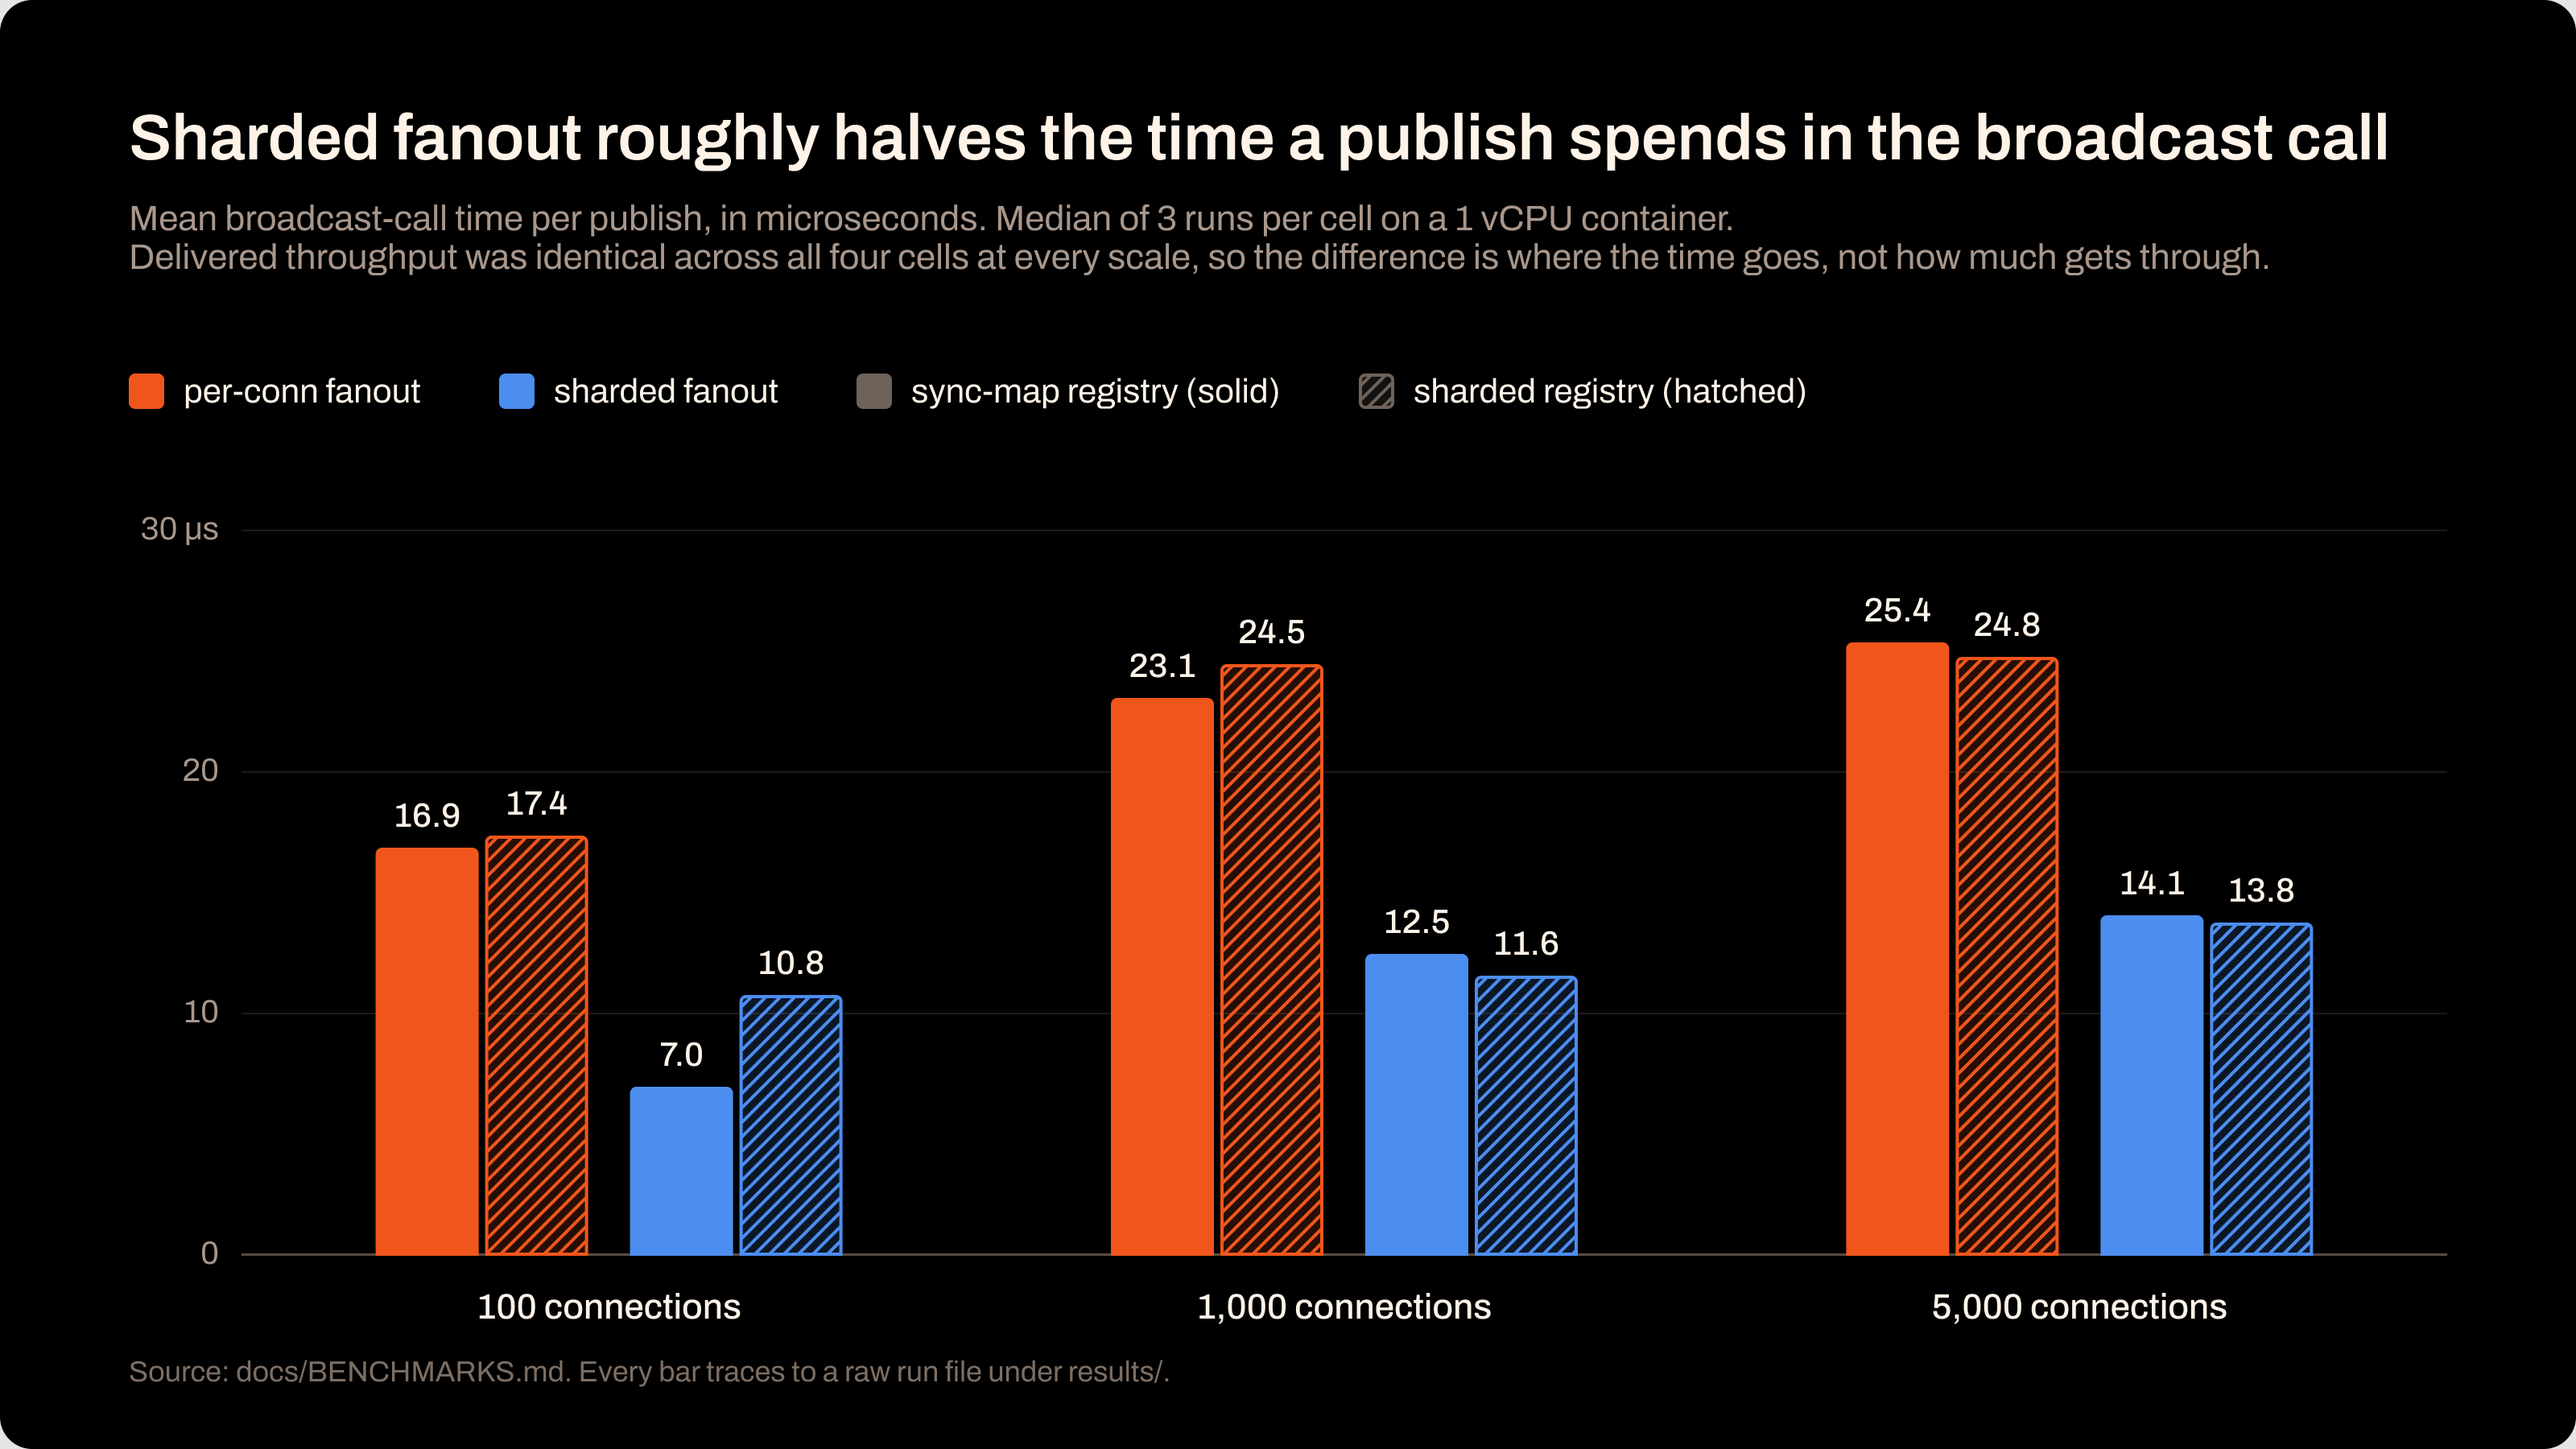
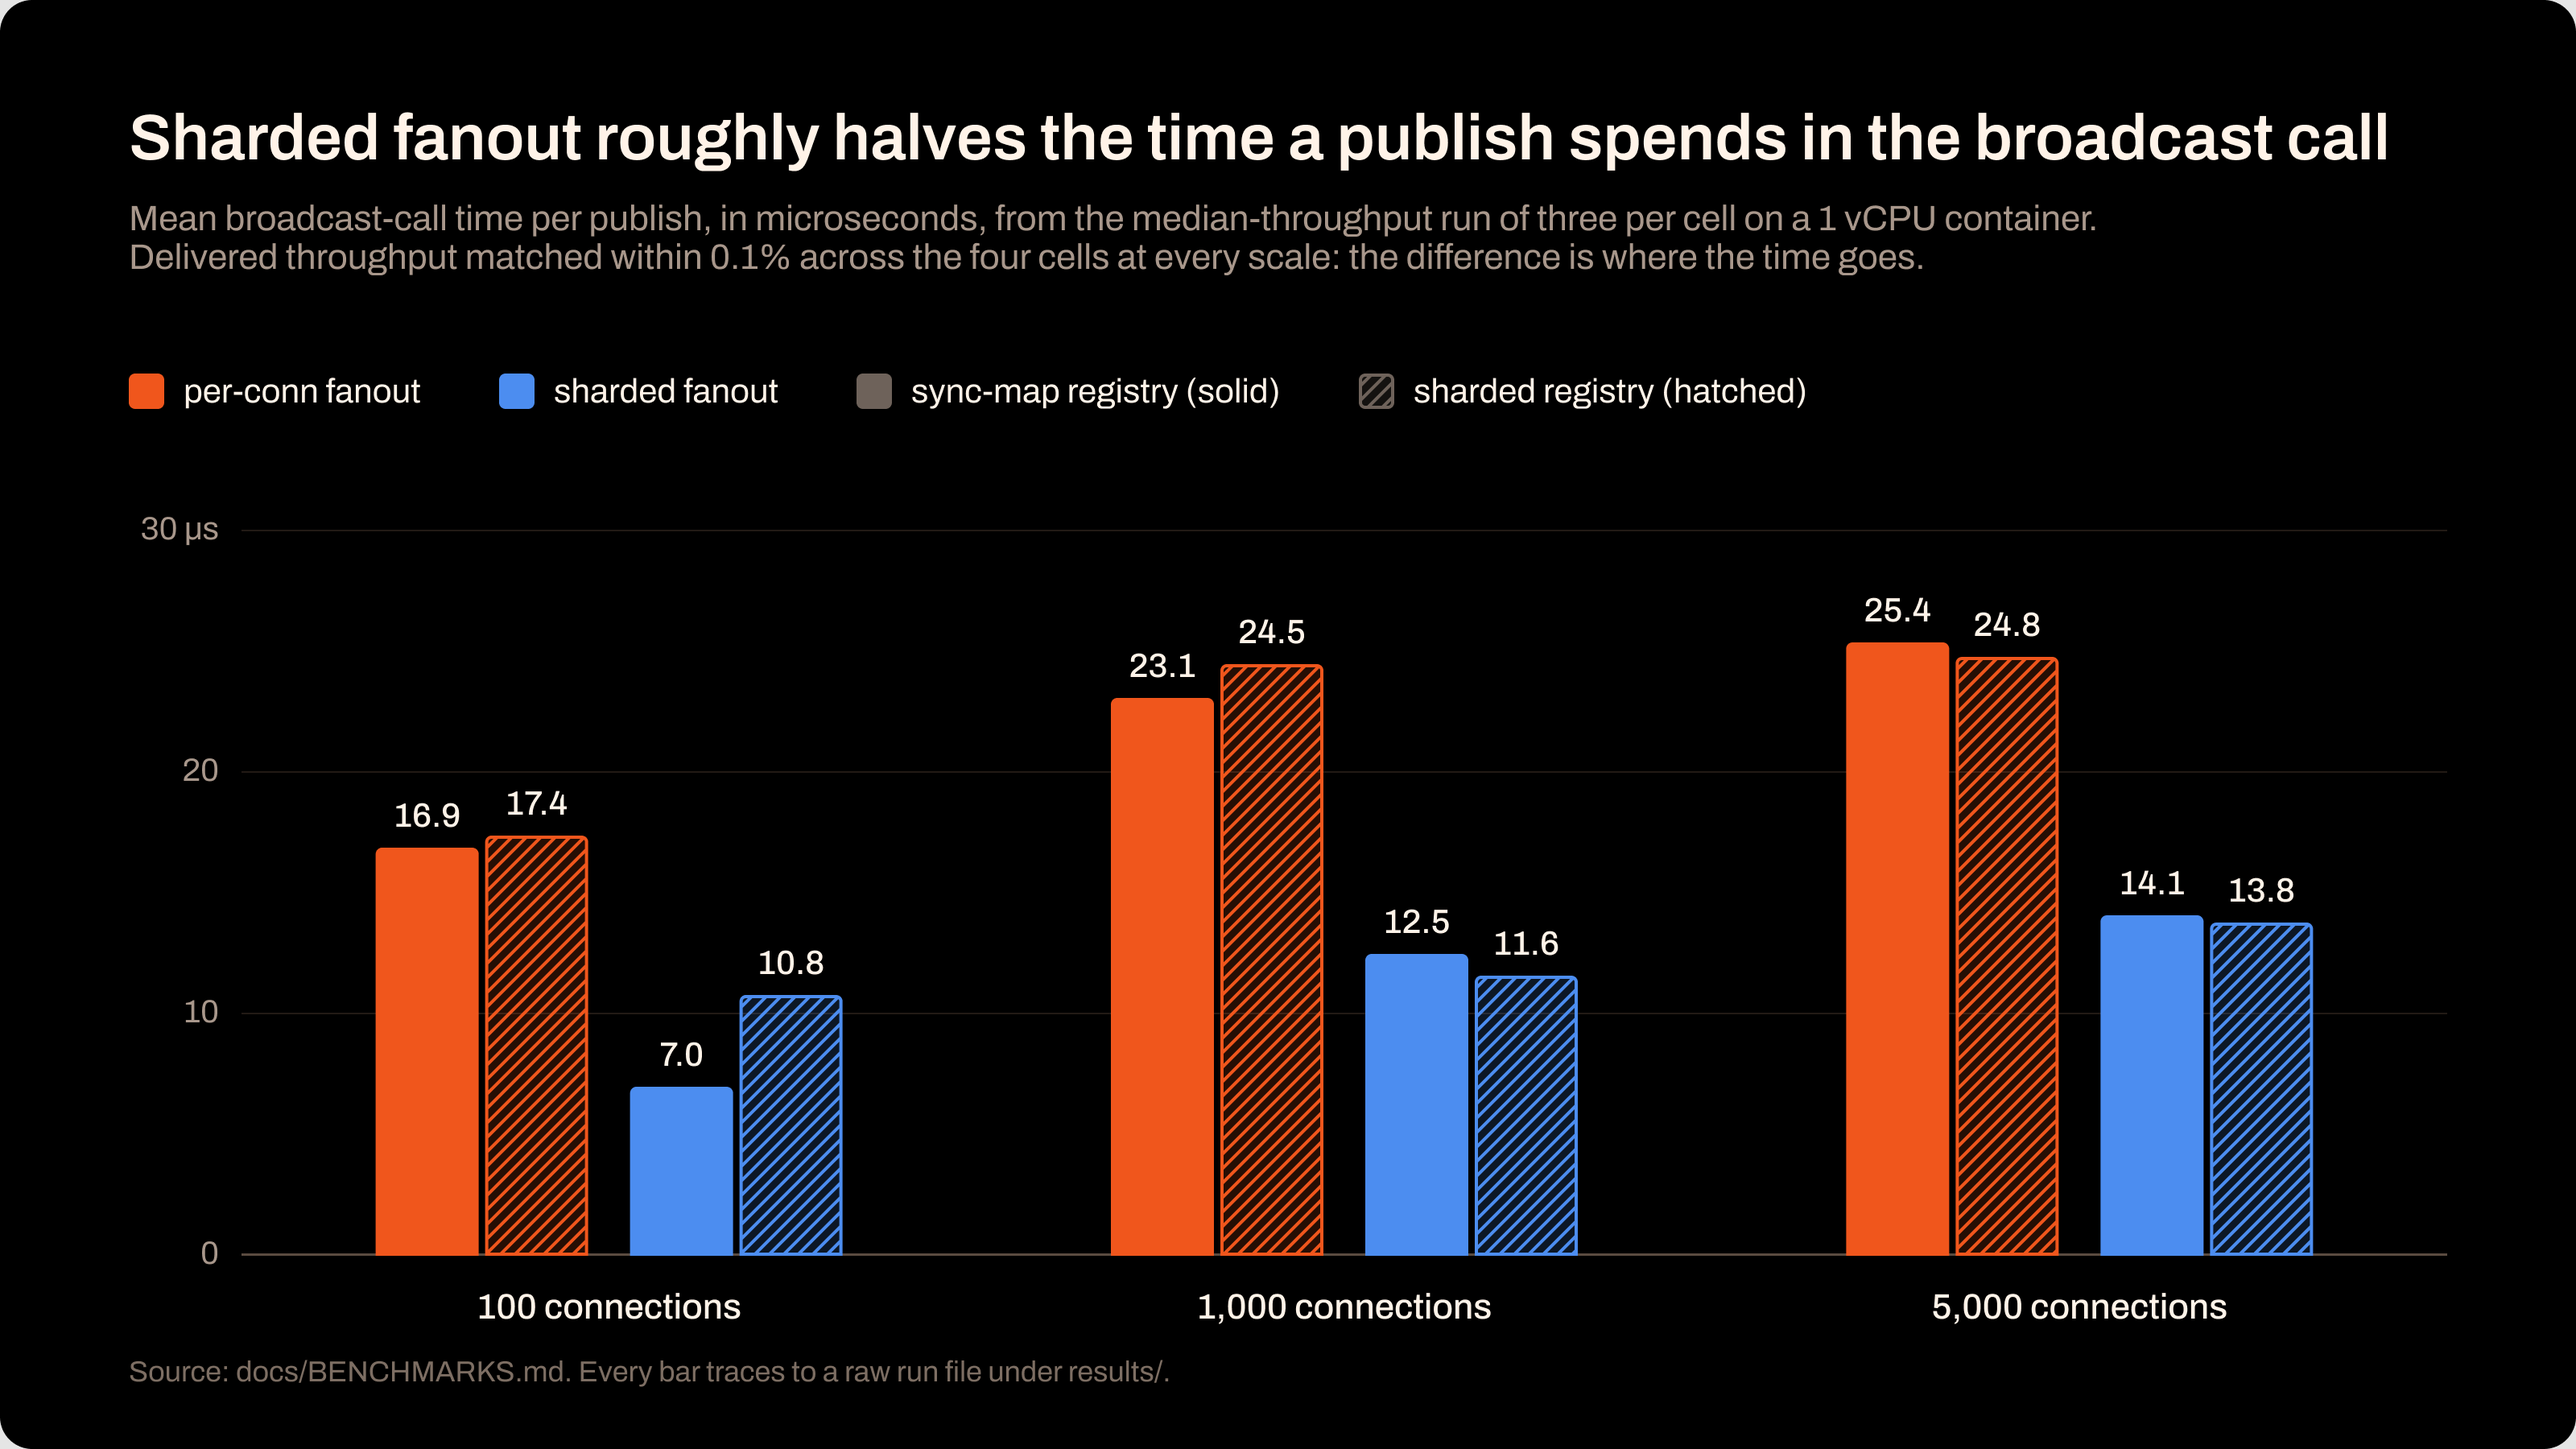
docs: correct three diagrams found wrong in the final review
The pipeline diagram said CI runs on every push; it runs on pushes to main
and on pull requests. The benchmark caption said each bar is a median of
three runs; each bar is the broadcast mean of the median-throughput run.
The architecture diagram drew the revoke route as DELETE /v1/keys; it is
DELETE /v1/keys/{id}.

Changed region(s): [[0.1875, 0.1244, 0.875, 0.1867]]

diff --git a/README.md b/README.md
@@ -263,7 +263,7 @@ proxy.
 <summary><b>How a release is built</b></summary>
 <br>
 <p align="center">
-  <img src="docs/img/ci-release-pipeline.png" alt="Pipeline: every push runs build, vuln and client-js jobs; a version tag runs CI, builds amd64 and arm64 natively with the version stamped in, publishes SHA256SUMS and CHANGELOG notes to a GitHub release, which deploy.sh installs" width="100%">
+  <img src="docs/img/ci-release-pipeline.png" alt="Pipeline: every push to main and every pull request runs build, vuln and client-js jobs; a version tag runs CI, builds amd64 and arm64 natively with the version stamped in, publishes SHA256SUMS and CHANGELOG notes to a GitHub release, which deploy.sh installs" width="100%">
 </p>
 </details>
 
